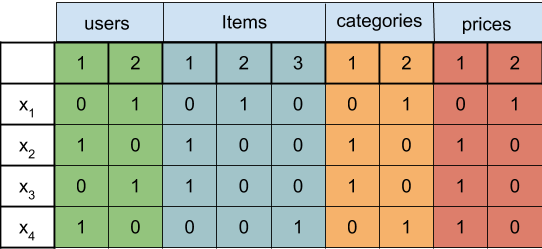
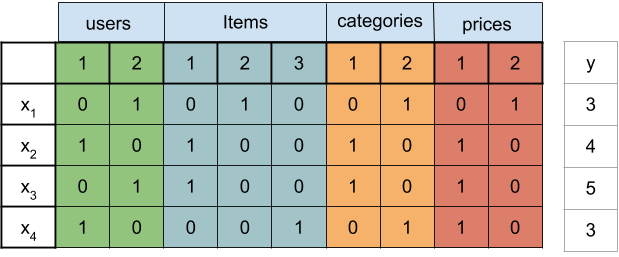
added some explanations and changed figure

diff --git a/appendix/basic-theory.tex b/appendix/basic-theory.tex
@@ -42,8 +42,8 @@ This could be solved by replacing $A$ with $\hat{A} = A + I$ where $I$ is the id
 Doing this the node considers itself a neighbor.
 
 \subsection{Factorization machines}
-Factorization machines(FM) are a general-purpose supervised learning algorithm.
-The main advantage of using FM's is that they perform very well with large and sparse datasets, and have a linear complexity.
+Factorization machines(FM) are a general-purpose supervised learning algorithm and where originally introduced by Steffen Rendle \cite{factorization_machines}.
+The main advantage of using FM's is that they perform well with large and sparse datasets, and have a linear complexity.
 When dealing with very sparse datasets where there are many users and items with few interactions, it can be difficult to predict future interactions because there is not enough data to do so.
 This is the problem that FM's solve.
 FM's are able to do this well because they break the independence of the parameters by factorizing them.
@@ -57,15 +57,19 @@ In this data set we have set of users U, items I, categories C and price levels 
 	\item $C = {1, 2}$
 	\item $P = {1, 2}$
 \end{itemize}
-The interactions in this dataset would then be represented as seen in \autoref{fig:FM-example} where each interaction is a row in the table which can also be seen as a vector.
-In the FM model this would be considered as a feature set
+These are the categorical variables in the data set. 
+The interactions in this dataset would then be represented as seen in \autoref{fig:FM-example} where each interaction is a row in the table which in the FM model is considered a feature vector.
+The last column contains the target variables for the corresponding row.
+The target variable is the feature that the model wants to learn from the other features.
+This means that it will try to learn what the relationship is between the combination of features in the feature vector and the value of the target variable.
+This is how supervised machine learning algorithms generally learn.
 \begin{figure}
     \centering
-    \includegraphics[scale=0.5]{figures/FM-example.png}
+    \includegraphics[scale=0.4]{figures/FM-example.png}
     \caption{Dataformat used in FM's}
     \label{fig:FM-example}
 \end{figure}
-The goal of the FM model is to estimate a function $\hat{y}$ from a feature set $x_i$ to a target domain. 
+The goal of the FM model is to estimate a function $\hat{y}$ from a feature vector $x_i$ to a target domain. 
 It does this by using factorized parametrization to capture feature interactions.
 
 The equation for the model looks like this:
@@ -74,6 +78,12 @@ Where the parameters that have to be estimated are:
 \[ w_0 \epsilon \mathbb{R}, \qquad \mathbf{w} \epsilon \mathbb{R}^n, \qquad  \mathbf{V}\epsilon \mathbb{R}^{n \times k} \]
 and $\big \langle v_i,v_j \big \rangle$ is the dot product of two vectors of size k:
 \[ \big \langle v_i,v_j \big \rangle := \sum_{f=1}^{k} v_{i,f} \cdot v_{j,f}\]
-where $v_i$ and $v_j$ are both feature vectors of the i-th and j-th item interaction.
 
+\begin{itemize}
+	\item $w_0$ which is the global bias
+	\item $w \epsilon \mathbb{R}^n$ are the weights for feature vector $x_i$
+	\item $V \epsilon \mathbb{R}^{nxk}$ is the weight matrix for feature vector combination $v_iv_j$
+\end{itemize}
+A row $v_i$ within V describes the i-th variable with k factors.
+k is a hyperparameter that defines the dimensionality of the factorization.
 By doing this the FM models each interaction by factorizing it which allows it to estimate parameters of high-order interactions under sparsity.
